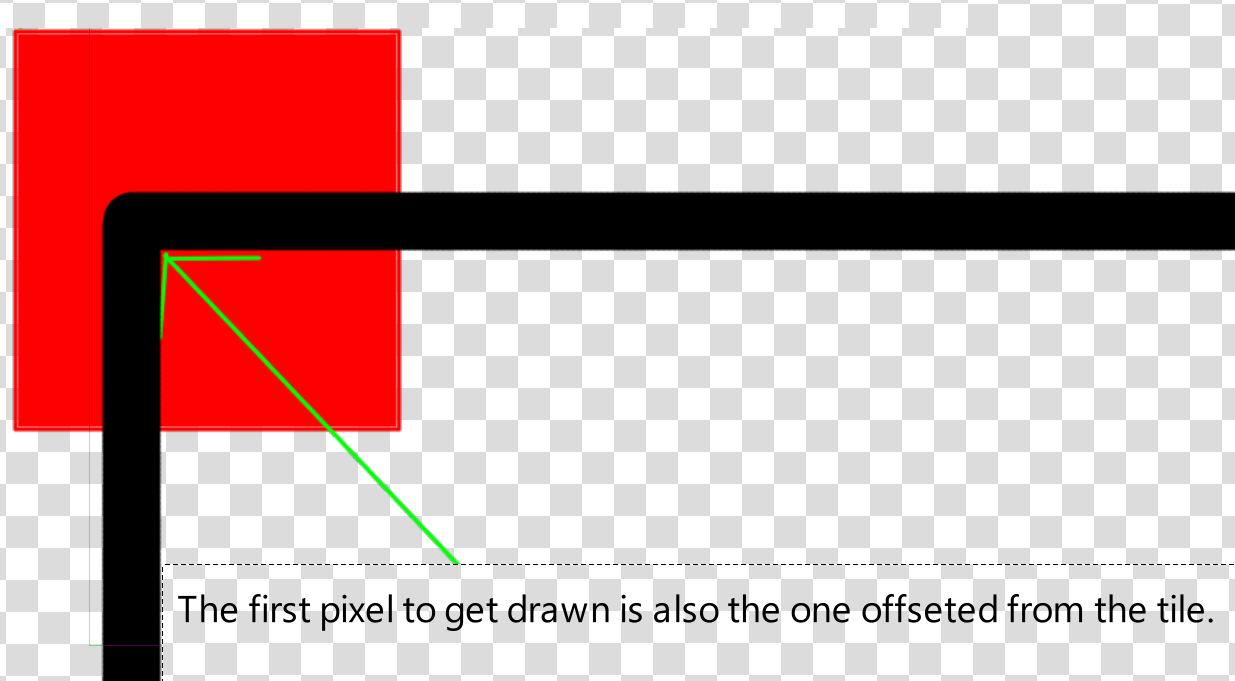
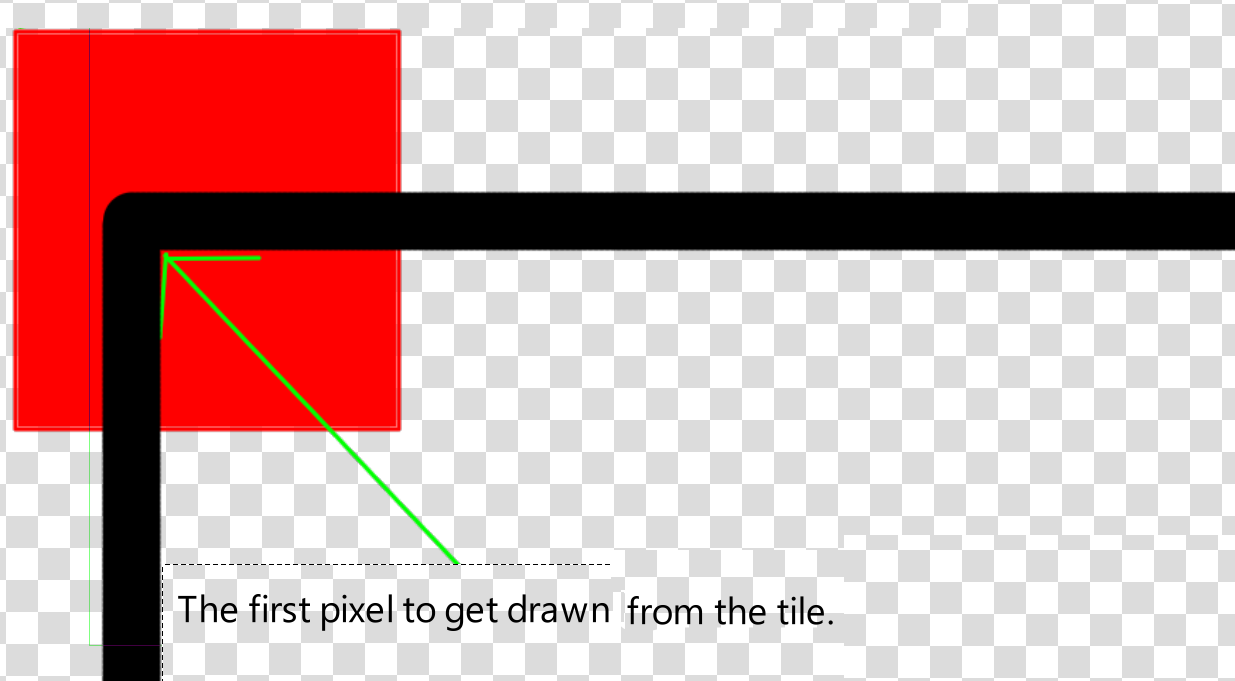
typo and image fix

Changed region(s): [[0.4923, 0.7709, 1.0, 1.0]]

diff --git a/_posts/2023-11-03-how-to-make-a-scrolling-tile-map-without-an-engine-in-c++.md b/_posts/2023-11-03-how-to-make-a-scrolling-tile-map-without-an-engine-in-c++.md
@@ -171,7 +171,7 @@ _My friend, Erik, provided this great animation_
 ### ***Note*** : Click on the gif so you can see his github repo.
 After you get your head around how this formula works, you know more or less how you can copy the value of each pixel from the palette and  draw it to the corresponding screen pixel. 
 
-Let’s start small, and draw just one tile to the screen.
+Let’s start small, and draw just the first tile to the screen.
 ![Code for a tile](CodeForTile.png)
 _make sure you do your drawing in the tick function_
  If you run the solution you should see a majestic tile:  
@@ -199,12 +199,13 @@ And now, after hard work we get the notorious error:
 {: .prompt-info }
 ### Partial Rendering of Tiles
 
-I might have *partially* lied earlier about the error, you might or might not get it, depening on how big your screen and/or your tile map. Assuming you do not want to live with that compromise, we need to partially draw tiles in order not to draw outside the screen.
+I might have *partially* lied earlier about the error, you might or might not get it, depending on how big your screen and/or your tile map. Assuming you do not want to live with that compromise, we need to partially draw tiles in order not to draw outside the screen.
 
-Adding some code to check if a tile is out of screen should be easy enough, we just need to check if we are below 0 or above our screen resolution. Or you know, check the complete opposite and check if the condition is true.
+Let's start simple with checking if a tile is out of screen. If the tile's corners are between 0 and the screen resolution we can draw it.
 
 ![clampScreen](clampScreen.png)
-Let’s try one more time! But, before that let's give our tile a position and some code to move it in the opposite direction of our keys, we do this to create the illusion of moving to the right, while the tile map moves to the left.
+Let’s try one more time! But, before that let's give our tile a position and some code to move it in the opposite direction of our keys.
+We do this to create the illusion of movement, the map should move in the opposite direction of where we want to move.
 
 Let's make some vectors to store the position and the direction we need to go to:
 ![floats](vec2Floats.png)
